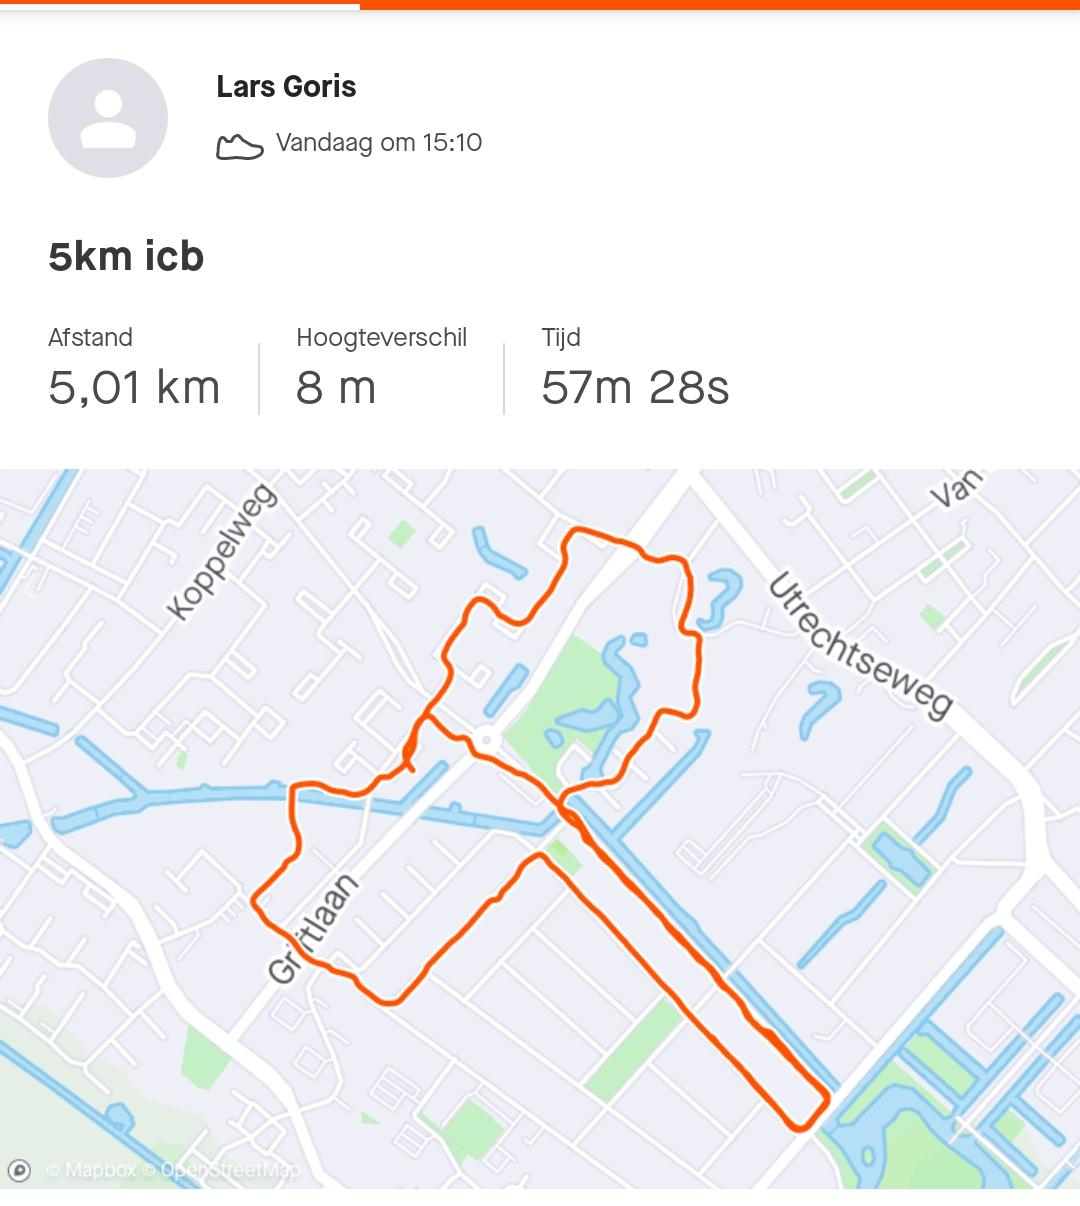
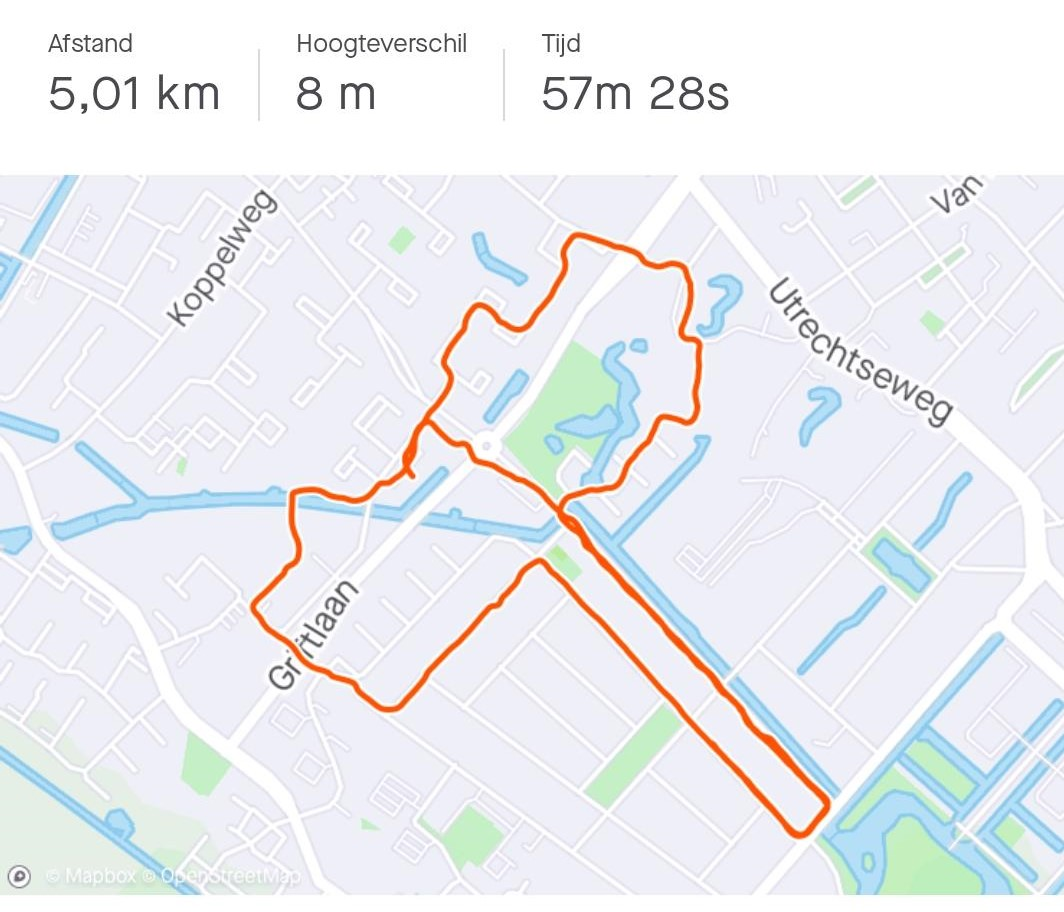
Adding running map for student_data (W-100%) + Images

diff --git a/src/_services/student-data-service.ts b/src/_services/student-data-service.ts
@@ -8,7 +8,7 @@ export const STUDENT_DATA: Student[] = [
     actualAmount: 5,
     amountRaised: 70,
     description: 'Ondanks dat ik niks meer kon na de 5 km, die ik heb gelopen, heb ik veel geld opgehaald om ervoor te zorgen dat we sneller met ze alle weer in de kroeg kunnen staan. We hoeven dan ook niet meer hard te lopen.',
-    imageScr: 'assets/img/no_run.JPG',
+    imageScr: 'assets/img/milan_dammingh.jpeg',
   },
 
   {
@@ -18,7 +18,7 @@ export const STUDENT_DATA: Student[] = [
     actualAmount: 8.01,
     amountRaised: 24.00,
     description: '',
-    imageScr: 'assets/img/no_run.JPG',
+    imageScr: 'assets/img/floor_zandstra.jpg',
   },
 
   {
@@ -28,7 +28,7 @@ export const STUDENT_DATA: Student[] = [
     actualAmount: 10.15,
     amountRaised: 95,
     description: '',
-    imageScr: 'assets/img/no_run.JPG',
+    imageScr: 'assets/img/cami_tak.jpg',
   },
 
   {
@@ -48,7 +48,7 @@ export const STUDENT_DATA: Student[] = [
     actualAmount: 5.01,
     amountRaised: 5.00,
     description: 'Samen met huisgenoot gelopen.',
-    imageScr: 'assets/img/no_run.JPG',
+    imageScr: 'assets/img/lars_goris.jpg',
   },
 
   {
@@ -68,7 +68,7 @@ export const STUDENT_DATA: Student[] = [
     actualAmount: 13.5,
     amountRaised: 23,
     description: '',
-    imageScr: 'assets/img/no_run.JPG',
+    imageScr: 'assets/img/marciano_mascini.JPG',
   },
   {
     name: 'Tycho Bakker',
@@ -86,7 +86,7 @@ export const STUDENT_DATA: Student[] = [
     actualAmount: 8,
     amountRaised: 20.00,
     description: '',
-    imageScr: 'assets/img/no_run.JPG',
+    imageScr: 'assets/img/maud_van_loon.JPG',
   },
   {
     name: 'Kelly Brabander',
